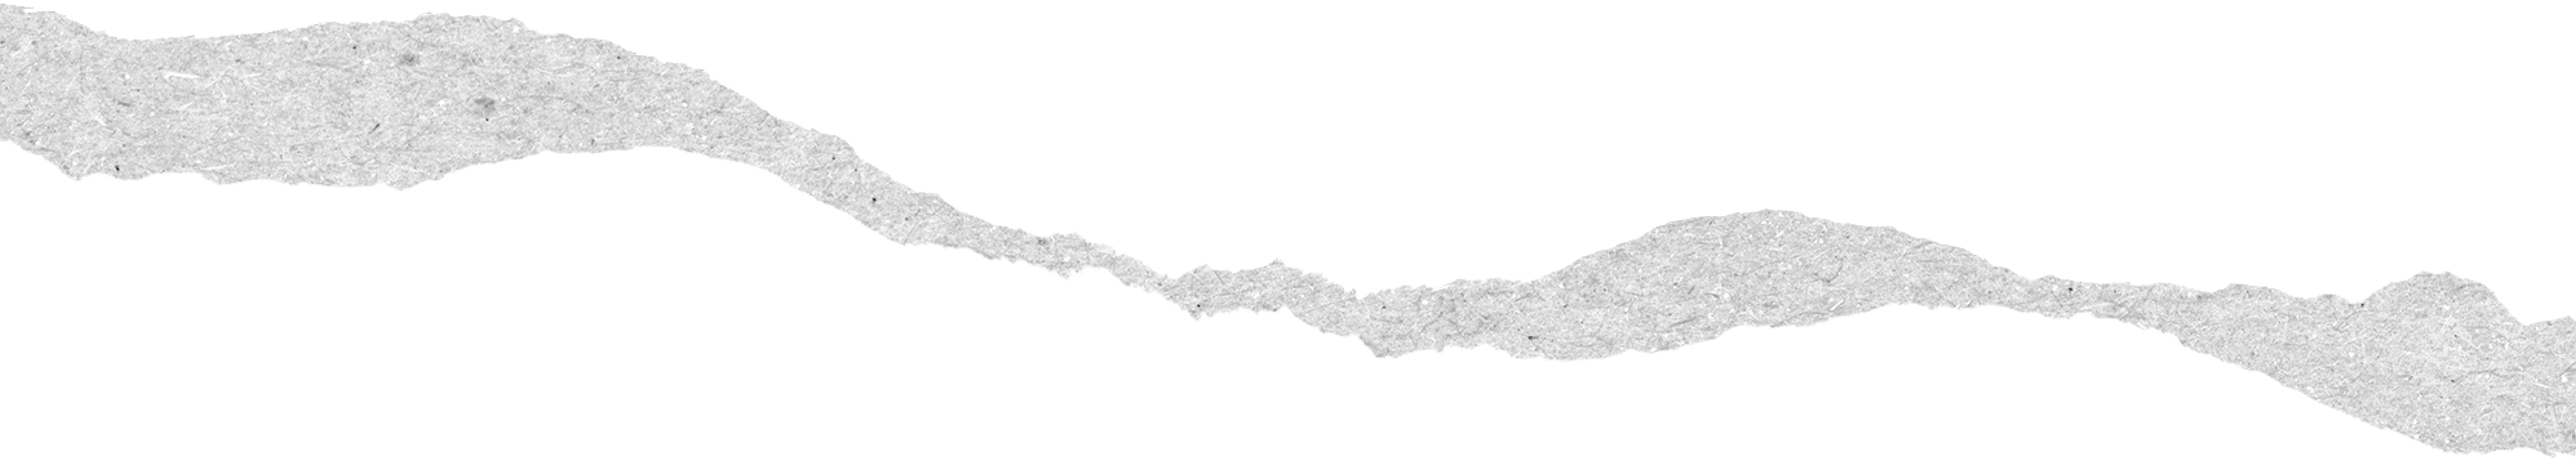
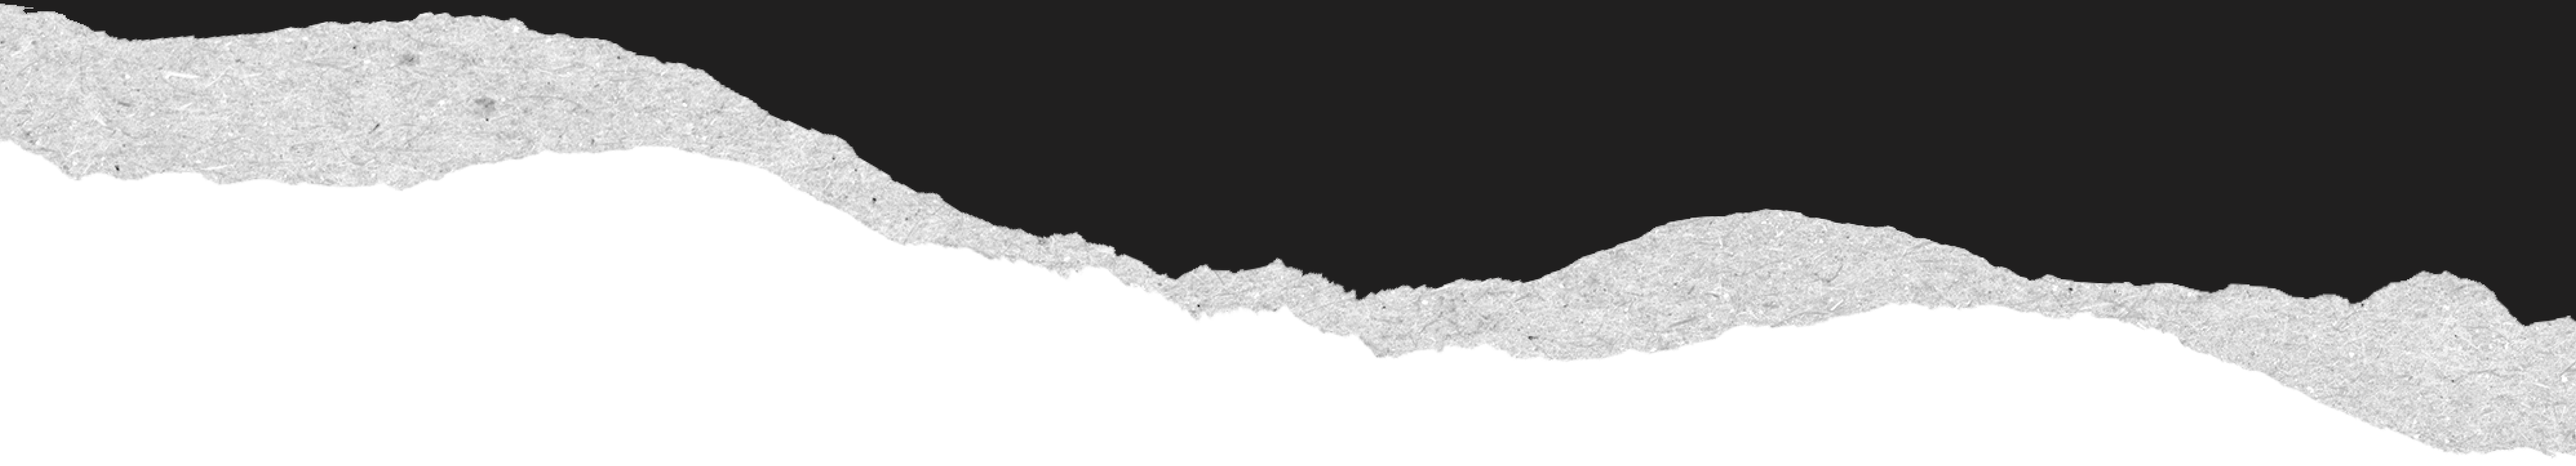
Finish contact section

diff --git a/src/app/(marketing)/components/Contact.tsx b/src/app/(marketing)/components/Contact.tsx
@@ -3,18 +3,51 @@ import React from "react";
 
 export default function Contact() {
   return (
-    <section className="min-h-screen w-full relative overflow-hidden bg-[var(--color-blue)]">
+    <div className="min-h-screen w-full relative bg-[var(--color-lime)] overflow-y-visible">
       {/* top neon strip */}
       <div className="absolute inset-x-0 top-0 h-24 bg-[var(--color-lime)] pointer-events-none" />
+      {/* bottom-right megaphone decoration */}
+      <div className="absolute right-6 -top-10 md:-top-18 w-36 h-36 md:w-68 md:h-68 pointer-events-none overflow-visible">
+        <Image
+          src="/sections/contact/megafono.png"
+          alt="megafono"
+          fill
+          className="object-contain"
+          priority
+          draggable={false}
+        />
+      </div>
+      <div className="min-h-[110vh] w-full relative overflow-hidden bg-[url('/sections/contact/contacto-fondo.png')] bg-cover">
+        {/* "tienes un problema?" image */}
+        <div className="absolute  w-[50vw] h-52 pointer-events-none right-0 md:top-40 md:h-72 lg:h-96 md:w-[50vw] lg:w-[40vw] lg:top-50 lg:right-0 top-32">
+          <Image
+            src="/sections/contact/tienes-un-problema.png"
+            alt="tienes un problema?"
+            fill
+            className="object-contain absolute"
+            priority={true}
+          />
+        </div>
+        <div className="relative z-10 mx-auto py-24 flex flex-col md:flex-row items-end-safe h-[110vh] gap-12">
+          {/* left: big CONTACT T* + phone image */}
+          <div className="w-full flex items-center justify-center gap-6">
+            <div className="absolute bottom-0 left-0 flex-shrink-0 w-56 md:w-80 lg:w-96">
+              <div className="relative -left-20 -bottom-10 aspect-3/4 lg:h-[80vh] md:h-[60vh] h-[40vh]">
+                <Image
+                  src="/sections/contact/telefono.png"
+                  alt="phone"
+                  fill
+                  className="object-contain"
+                  priority
+                  draggable={false}
+                />
+              </div>
+            </div>
 
-      <div className="relative z-10 max-w-[1200px] mx-auto px-6 md:px-10 lg:px-20 py-24 flex flex-col md:flex-row items-start gap-12">
-        {/* left: big CONTACT T* + phone image */}
-        <div className="w-full md:w-1/2 flex items-start gap-6">
-          <div className="relative flex-shrink-0 w-56 md:w-80 lg:w-96">
-            <div className="absolute -left-6 -top-6 w-full h-full transform rotate-[-6deg]">
+            <div className="relative lg:h-[60vh] ratio-1/1 md:h-[60vh] h-[40vh] w-48 md:w-60 lg:w-[60vh]">
               <Image
-                src="/sections/contact/telefono.png"
-                alt="phone"
+                src="/sections/contact/contacto-text.png"
+                alt="Contacto"
                 fill
                 className="object-contain"
                 priority
@@ -23,58 +56,70 @@ export default function Contact() {
             </div>
           </div>
 
-          <h1 className="text-[clamp(48px,6vw,140px)] leading-none font-extrabold text-white uppercase tracking-tight">
-            <span className="block">CON</span>
-            <span className="block">TAC</span>
-            <span className="block">T
-              <span className="inline-block ml-2 -mt-2 align-baseline">
-                <Image
-                  src="/asterisco-blanco.png"
-                  alt="asterisco"
-                  width={54}
-                  height={54}
-                  className=""
-                  priority
-                  draggable={false}
-                />
-              </span>
-            </span>
-          </h1>
-        </div>
+          {/* right: message, email, socials, location */}
+          <div className="w-full flex flex-col items-end justify-end gap-6 md:gap-12 px-6 md:px-0">
+            <div className="w-full md:w-full flex flex-col items-center justify-center text-white">
+              <div className="py-8 max-w-md w-full text-center">
+                <a
+                  href="mailto:hola@estudiosonambulo.com"
+                  className="inline-block text-[var(--color-white)] font-bold px-5 py-3 rounded-md mb-6 hover:brightness-110 text-lg md:text-xl lg:text-2xl text-center"
+                >
+                  HOLA@ESTUDIOSONAMBULO.COM
+                </a>
 
-        {/* right: message, email, socials, location */}
-        <div className="w-full md:w-1/2 flex flex-col items-start justify-center text-white">
-          <div className="bg-white/10 backdrop-blur-md rounded-lg px-6 py-8 max-w-md w-full">
-            <h2 className="text-3xl md:text-4xl font-extrabold text-white mb-4">¿TIENES UN PROBLEMA?</h2>
-            <p className="text-sm md:text-base text-white/90 mb-6">
-              Escríbenos y platicamos cómo podemos ayudar.
-            </p>
+                <div className="flex items-center justify-center gap-4 mb-6">
+                  <a
+                    href="#"
+                    aria-label="facebook"
+                    className="w-12 h-12 rounded-full bg-white/10 flex items-center justify-center hover:bg-white/20"
+                  >
+                    <Image
+                      src="/icons/facebook.png"
+                      alt="fb"
+                      width={35}
+                      height={35}
+                      priority
+                      draggable={false}
+                    />
+                  </a>
+                  <a
+                    href="#"
+                    aria-label="instagram"
+                    className="w-12 h-12 rounded-full bg-white/10 flex items-center justify-center hover:bg-white/20"
+                  >
+                    <Image
+                      src="/icons/instagram.png"
+                      alt="ig"
+                      width={35}
+                      height={35}
+                      priority
+                      draggable={false}
+                    />
+                  </a>
+                  <a
+                    href="#"
+                    aria-label="linkedin"
+                    className="w-12 h-12 rounded-full bg-white/10 flex items-center justify-center hover:bg-white/20"
+                  >
+                    <Image
+                      src="/icons/linkedin.png"
+                      alt="li"
+                      width={35}
+                      height={35}
+                      priority
+                      draggable={false}
+                    />
+                  </a>
+                </div>
 
-            <a href="mailto:hola@estudiosonambulo.com" className="inline-block text-white font-bold bg-white/6 px-5 py-3 rounded-md mb-6 hover:brightness-110">
-              HOLA@ESTUDIOSONAMBULO.COM
-            </a>
-
-            <div className="flex items-center gap-4 mb-6">
-              <a href="#" aria-label="facebook" className="w-10 h-10 rounded-full bg-white/10 flex items-center justify-center hover:bg-white/20">
-                <Image src="/icons/facebook.svg" alt="fb" width={20} height={20} priority draggable={false} />
-              </a>
-              <a href="#" aria-label="instagram" className="w-10 h-10 rounded-full bg-white/10 flex items-center justify-center hover:bg-white/20">
-                <Image src="/icons/instagram.svg" alt="ig" width={20} height={20} priority draggable={false} />
-              </a>
-              <a href="#" aria-label="linkedin" className="w-10 h-10 rounded-full bg-white/10 flex items-center justify-center hover:bg-white/20">
-                <Image src="/icons/linkedin.svg" alt="li" width={20} height={20} priority draggable={false} />
-              </a>
+                <p className="text-center text-sm md:text-base lg:text-lg">
+                  ( ROMA NORTE, CUAUHTÉMOC, CDMX )
+                </p>
+              </div>
             </div>
-
-            <p className="text-sm text-white/80">( ROMA NORTE, CUAUHTÉMOC, CDMX )</p>
           </div>
         </div>
       </div>
-
-      {/* bottom-right megaphone decoration */}
-      <div className="absolute right-6 bottom-6 w-36 h-36 md:w-48 md:h-48 pointer-events-none">
-        <Image src="/sections/contact/megaphone.png" alt="megaphone" fill className="object-contain" priority draggable={false} />
-      </div>
-    </section>
+    </div>
   );
 }

diff --git a/src/app/(marketing)/components/About.tsx b/src/app/(marketing)/components/About.tsx
@@ -24,7 +24,7 @@ const STEPS = [
 const EXTRA_HOLD = 0.2;
 // Additional fixed viewport height (vh) to add to the section to allow extra hold
 // Increase this if you need the final step to have more physical scroll space.
-const EXTRA_VH = 200; // 20vh extra by default
+const EXTRA_VH = 180; // 20vh extra by default
 
 // compute an inclusive window for each step inside [0,1] scroll progress
 function windowFor(index: number, total: number) {
@@ -97,7 +97,7 @@ export default function About() {
         className="absolute bottom-20 mx-auto px-6 text-center pointer-events-none flex flex-col items-center"
       >
         {/* Eyebrow: fixed-width block so long lines wrap into two balanced lines */}
-        <p className="mx-auto mb-3 w-[170px] md:w-[220px] lg:w-[210px] px-3 py-2 bg-[var(--color-ink)] text-[var(--color-white)] leading-snug text-start text-wrap text-[14px] sm:text-[14px] md:text-[21px] lg:text-[32px]">
+        <p className="mx-auto mb-3 px-3 py-2 text-[var(--color-ink)] leading-snug text-start text-wrap text-[14px] sm:text-[14px] md:text-[21px] lg:text-[32px]">
           {step.eyebrow}
         </p>
 
@@ -123,7 +123,7 @@ export default function About() {
       {/* Sticky container that occupies the viewport while scrolling through the section */}
       <div className="sticky top-0 h-screen">
         {/* Centered background image (keeps visual fixed in the sticky block) */}
-          <div className="absolute inset-x-0 top-0 -z-10 flex justify-center h-[76dvh] w-full overflow-hidden">
+          <div className="absolute inset-x-0 top-0 -z-10 flex justify-center h-[60dvh] w-full overflow-hidden">
           <Image
             src="/sections/about/medio-asterisco-negro.png"
             alt="decorative"

diff --git a/src/app/(marketing)/components/How.tsx b/src/app/(marketing)/components/How.tsx
@@ -5,19 +5,19 @@ import Image from "next/image";
 export default function How() {
   return (
     <div
-      className="relative bg-[var(--color-ink)] min-h-[180vh] flex items-center justify-center flex-col overflow-hidden"
+      className="relative bg-transparent min-h-[180vh] -mt-20 flex items-center justify-center flex-col overflow-hidden"
       style={{
       backgroundImage:
-        "linear-gradient(to bottom, var(--color-lime) 0, var(--color-lime) var(--how-lime-band, 22dvh), var(--color-ink) var(--how-lime-band, 18dvh), var(--color-ink) 100%)",
+        "linear-gradient(to bottom, var(--color-lime) 0, var(--color-lime) var(--how-lime-band, 30dvh), var(--color-ink) var(--how-lime-band, 18dvh), var(--color-ink) 100%)",
       }}
     >
       {/* Top decorative strip (torn paper) */}
         <div
-          className="absolute w-dvw left-0 right-0 -top-[75dvh] h-full bg-[url('/sections/how/recorte-papel.png')] bg-no-repeat bg-center bg-contain overflow-hidden"
+          className="absolute w-dvw left-0 right-0 top-0 h-[50vh] bg-[url('/sections/how/recorte-papel.png')] bg-no-repeat bg-center bg-contain overflow-hidden"
           aria-hidden
         />
         {/* Frase "Ok, pero todos dicen eso" arriba a la izquierda */}
-        <div className="relative self-start z-50 pb-50 -mb-45 w-64 md:w-80 lg:w-96 aspect-4/2 pointer-events-none">
+        <div className="relative self-start z-50 mt-50 pb-50 -mb-45 w-64 md:w-80 lg:w-96 aspect-4/2 pointer-events-none">
           <Image
             src="/sections/how/frase.png"
             alt="Ok, pero todos dicen eso... Tu probablemente."

diff --git a/src/app/(marketing)/components/Capabilities.tsx b/src/app/(marketing)/components/Capabilities.tsx
@@ -8,17 +8,17 @@ export default function Capabilities() {
   ];
 
   return (
-    <div className="min-h-[120dvh] -mt-54 pt-50 flex flex-col justify-start items-start py-20 px-6 lg:px-24 bg-[url('/sections/capabilities/fondo-capabilities.png')] bg-no-repeat bg-cover" >
+    <div className="relative min-h-[120dvh] -mt-54 pt-50 flex flex-col justify-start items-start py-20 px-6 lg:px-24 bg-[url('/sections/capabilities/fondo-capabilities.png')] bg-no-repeat bg-cover">
       <h2 className="text-[var(--color-white)] font-extrabold text-4xl md:text-5xl mb-24">CAPABILITIES</h2>
 
       <div className="w-full space-y-8">
-        {items.map((it) => (
-          <CapabilityItem key={it.titulo} titulo={it.titulo} colorClass={it.colorClass} />
-        ))}
+      {items.map((it) => (
+        <CapabilityItem key={it.titulo} titulo={it.titulo} colorClass={it.colorClass} />
+      ))}
       </div>
       <div
-        className="absolute w-vw left-0 right-0 -bottom-[50dvh] h-full pointer-events-none bg-[url('/sections/clients/recorte-clientes.png')] bg-no-repeat bg-center bg-contain overflow-hidden"
-        aria-hidden
+      className="absolute w-vw left-0 right-0 bottom-0 h-[51vh] pointer-events-none bg-[url('/sections/clients/recorte-clientes.png')] bg-no-repeat bg-bottom bg-contain overflow-hidden"
+      aria-hidden
       />
     </div>
   );

diff --git a/src/app/(marketing)/components/Hero.tsx b/src/app/(marketing)/components/Hero.tsx
@@ -60,9 +60,9 @@ export default function Hero(): JSX.Element {
             <Image
               src={compact ? '/logo-compact-dark-bg.svg' : '/logo-dark-bg.svg'}
               alt="Sonámbulo"
-              width={640}
-              height={240}
-              sizes="(min-width: 1200px) 640px, (min-width: 768px) 520px, 360px"
+              width={576}
+              height={216}
+              sizes="(min-width: 1200px) 576px, (min-width: 768px) 468px, 324px"
               className={`${classes.logoImage} ${compact ? classes.logoCompact : ''}`}
               priority
             />
@@ -89,9 +89,9 @@ export default function Hero(): JSX.Element {
             <Image
               src="/sections/hero/bienvenidos.png"
               alt="Bienvenidos a Sonámbulo"
-              width={720}
-              height={224}
-              sizes="(min-width: 1200px) 720px, (min-width: 768px) 520px, 360px"
+              width={648 * 0.8}
+              height={202 * 0.8}
+              sizes="(min-width: 1200px) 648px, (min-width: 768px) 468px, 324px"
               className={classes.welcomeImage}
               priority
             />

diff --git a/src/app/(marketing)/components/Process.tsx b/src/app/(marketing)/components/Process.tsx
@@ -25,10 +25,10 @@ export default function Process() {
 
   return (
     <div className="relative min-h-[110dvh] w-full overflow-hidden bg-[var(--color-blue)]">
-      <div
-        className="absolute w-dvw left-0 right-0 -top-[38dvh] h-full bg-[url('/sections/how/recorte-2.png')] bg-no-repeat bg-center bg-contain overflow-hidden"
+      {<div
+        className="absolute w-vw left-0 right-0 top-0 h-[28vh] bg-[url('/sections/how/recorte-2.png')] bg-no-repeat bg-center bg-cover overflow-hidden"
         aria-hidden
-      />
+      />}
       <div className="relative min-h-[110dvh] flex flex-col justify-center items-center">
         <div className="container mx-auto px-6 lg:px-12 pt-20 pb-34 lg:pb-20">
           {/* Top title */}

diff --git a/src/app/(marketing)/components/FondoRecorte.tsx b/src/app/(marketing)/components/FondoRecorte.tsx
@@ -1,0 +1,20 @@
+import React from "react";
+
+export default function FondoRecorte({
+  children,
+}: {
+  children?: React.ReactNode;
+}) {
+  return (
+    <div
+      style={{
+      backgroundImage:
+        "linear-gradient(to bottom, var(--color-lime) 0, var(--color-lime) 50%, var(--color-blue) 50%, var(--color-blue) 100%)",
+      }}
+    >
+      <div className="relative w-full bg-[url('/sections/how/fondo-recorte.png')] bg-cover bg-center bg-no-repeat overflow-y-visible">
+      {children}
+      </div>
+    </div>
+  );
+}

diff --git a/src/app/(marketing)/components/Section.tsx b/src/app/(marketing)/components/Section.tsx
@@ -1,7 +1,7 @@
 import { ReactNode } from "react";
 export function Section({ id, children }: { id: string; children: ReactNode }) {
   return (
-    <section id={id} className="relative mx-auto w-full">
+    <section id={id} className="relative mx-auto w-full overflow-y-visible">
       {children}
     </section>
   );
